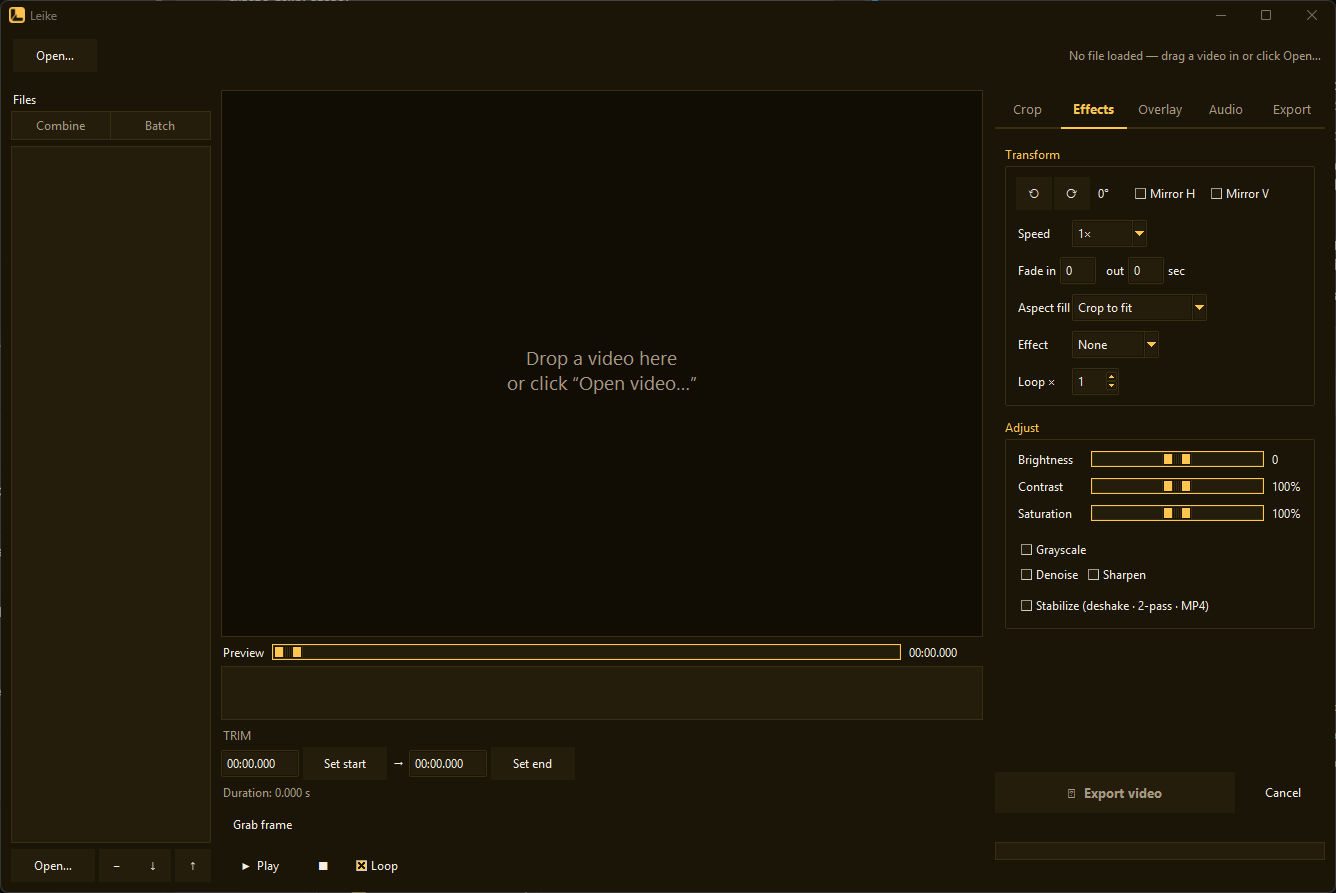
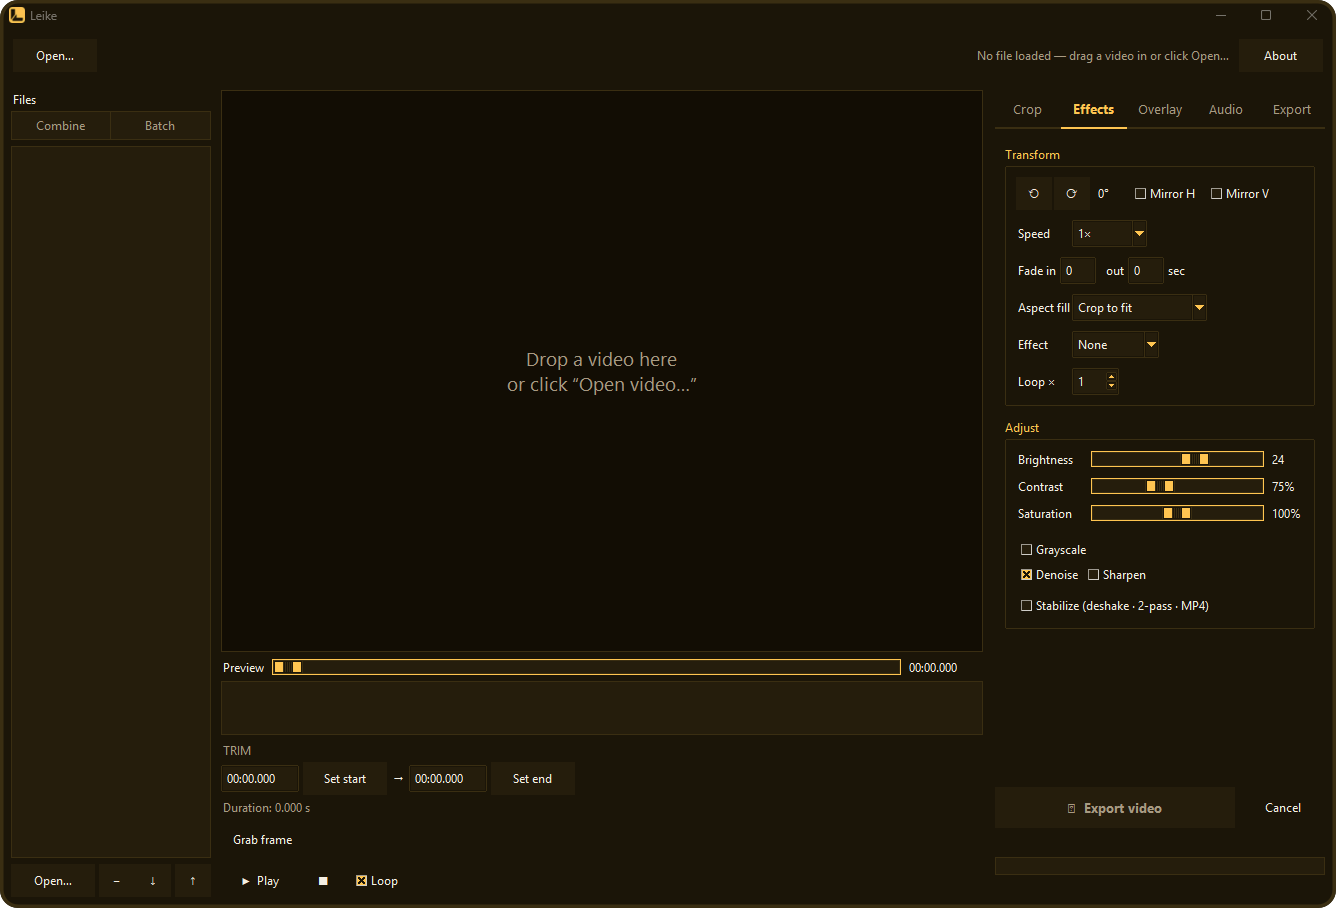
tweak(site): regenerate OG image + refresh screenshot (simple/FFmpeg)

diff --git a/site/og.html b/site/og.html
@@ -79,7 +79,7 @@
           </g>
         </svg>
       </div>
-      <div class="tag">A small, quick front-end for ffmpeg.</div>
+      <div class="tag">A simple, quick front-end for FFmpeg.</div>
       <div class="verbs">
         <span>Trim</span><i>·</i><span>Crop</span><i>·</i><span>Resize</span><i>·</i><span>Convert</span>
       </div>